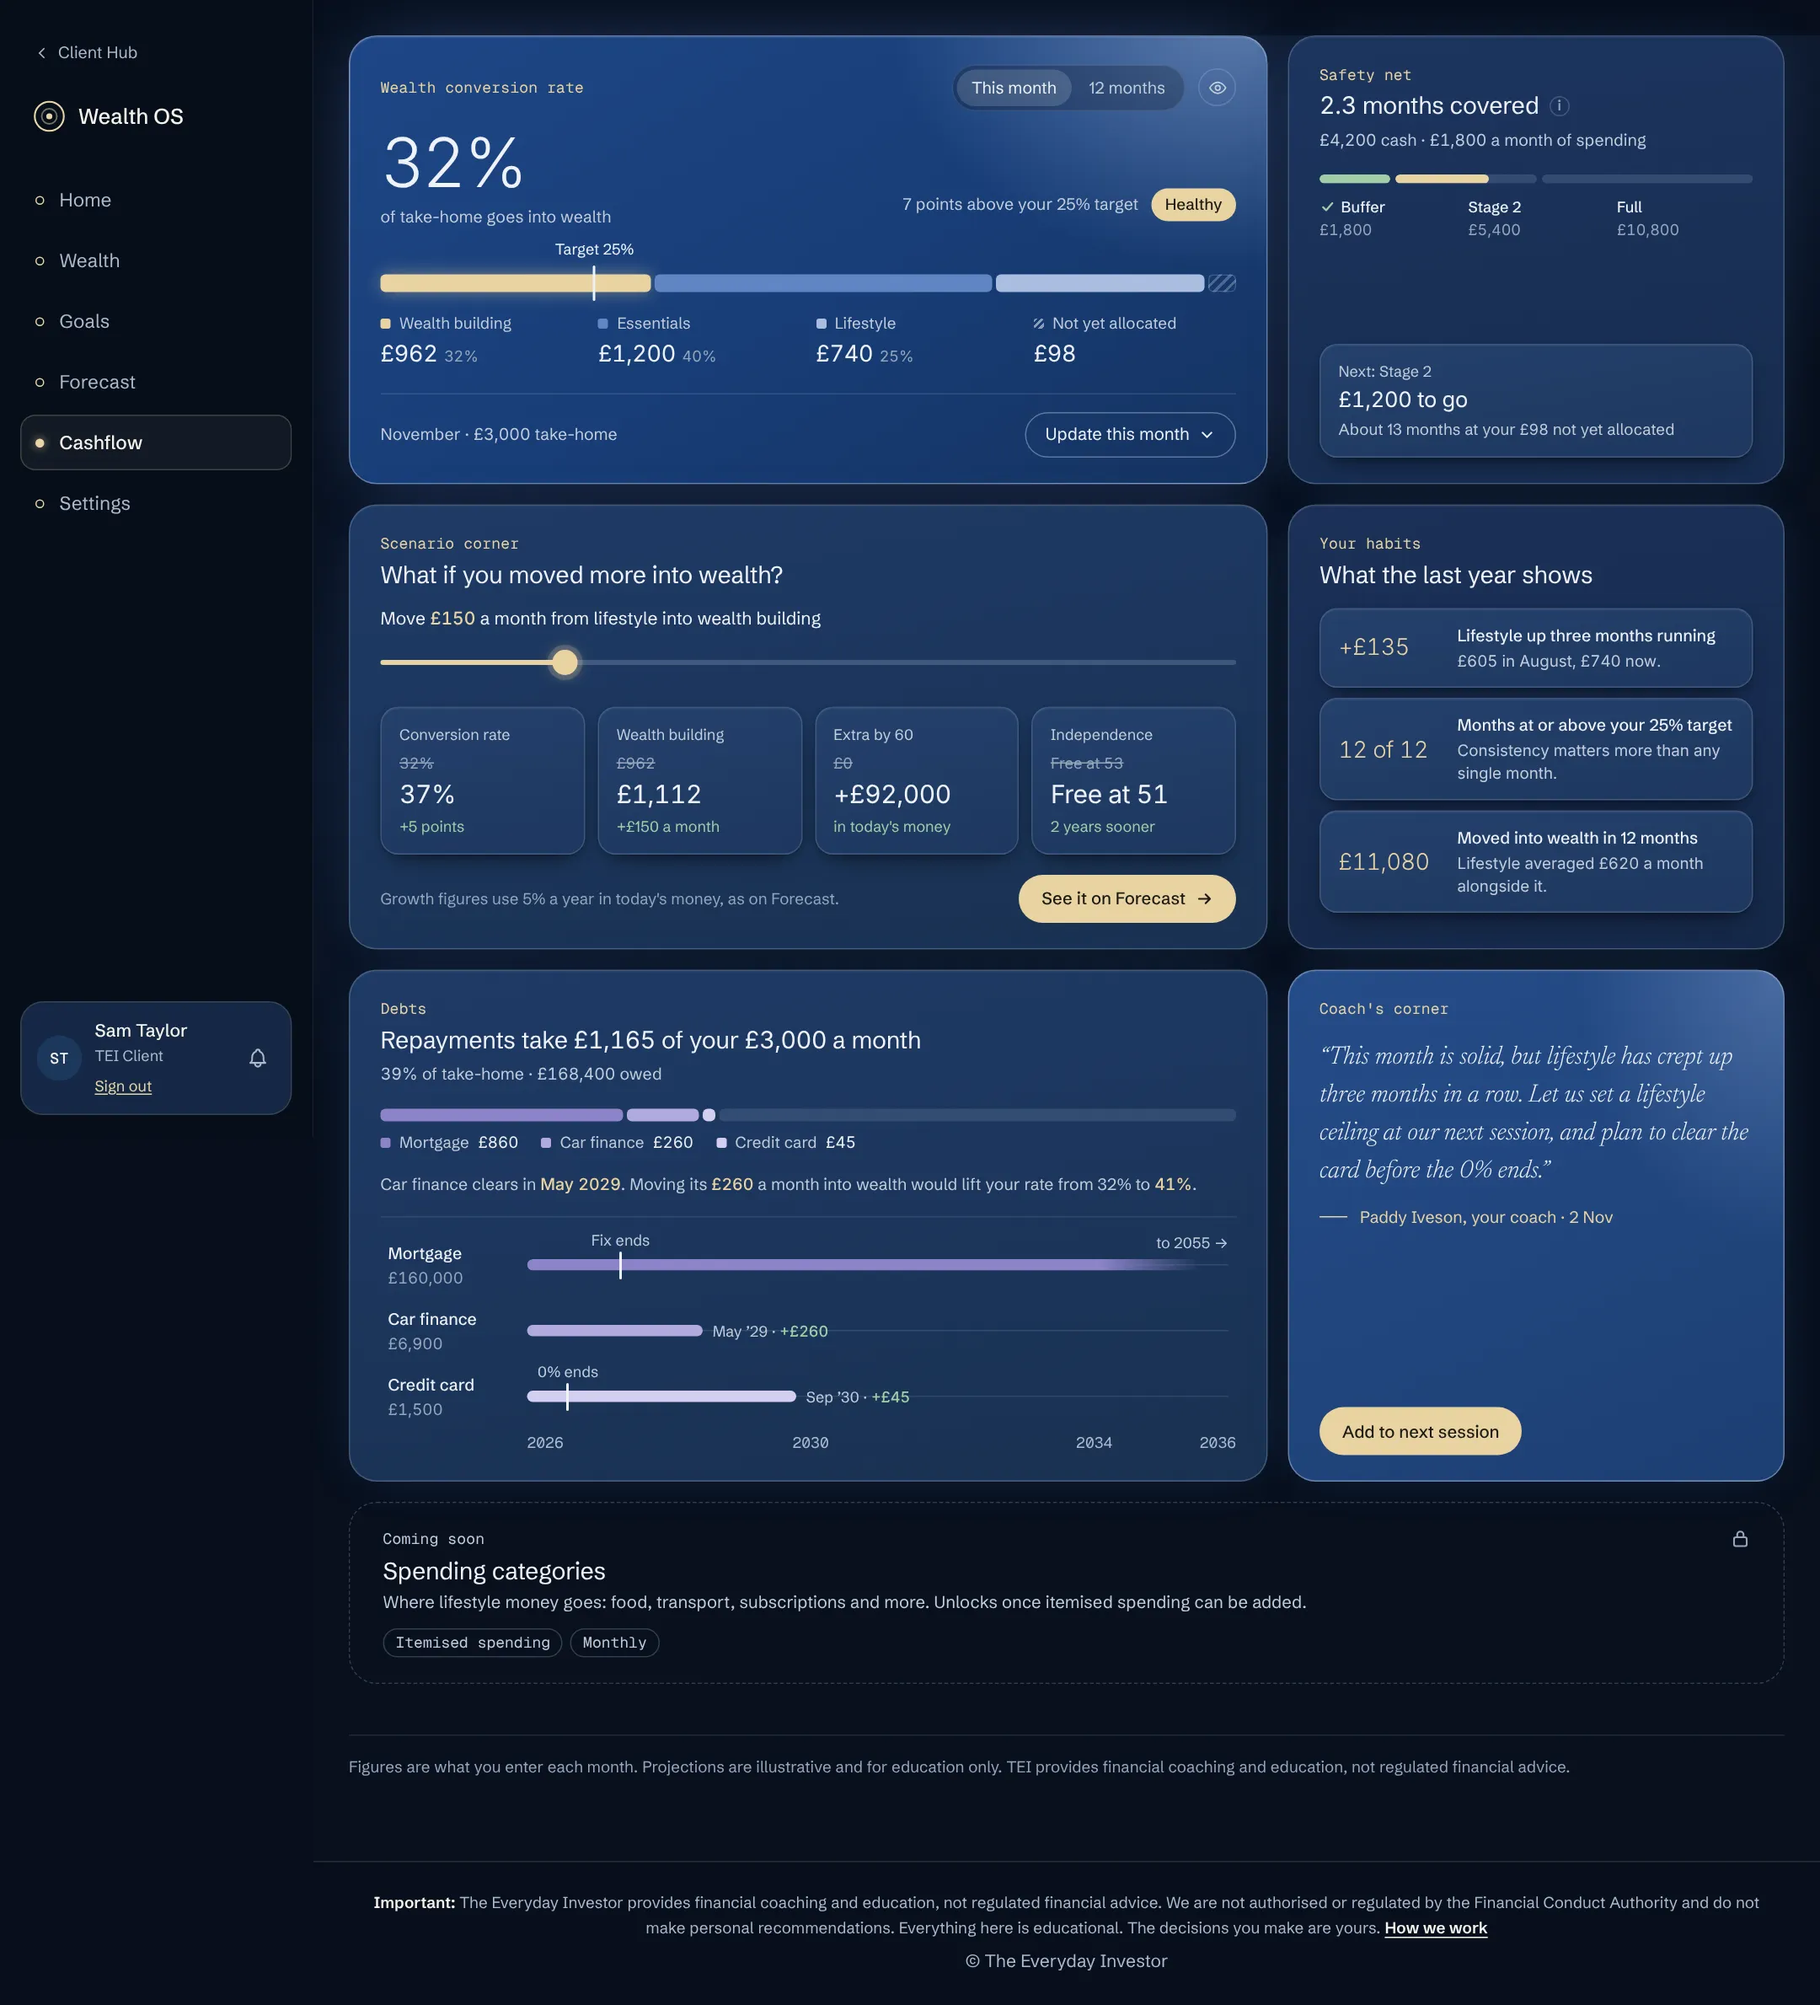
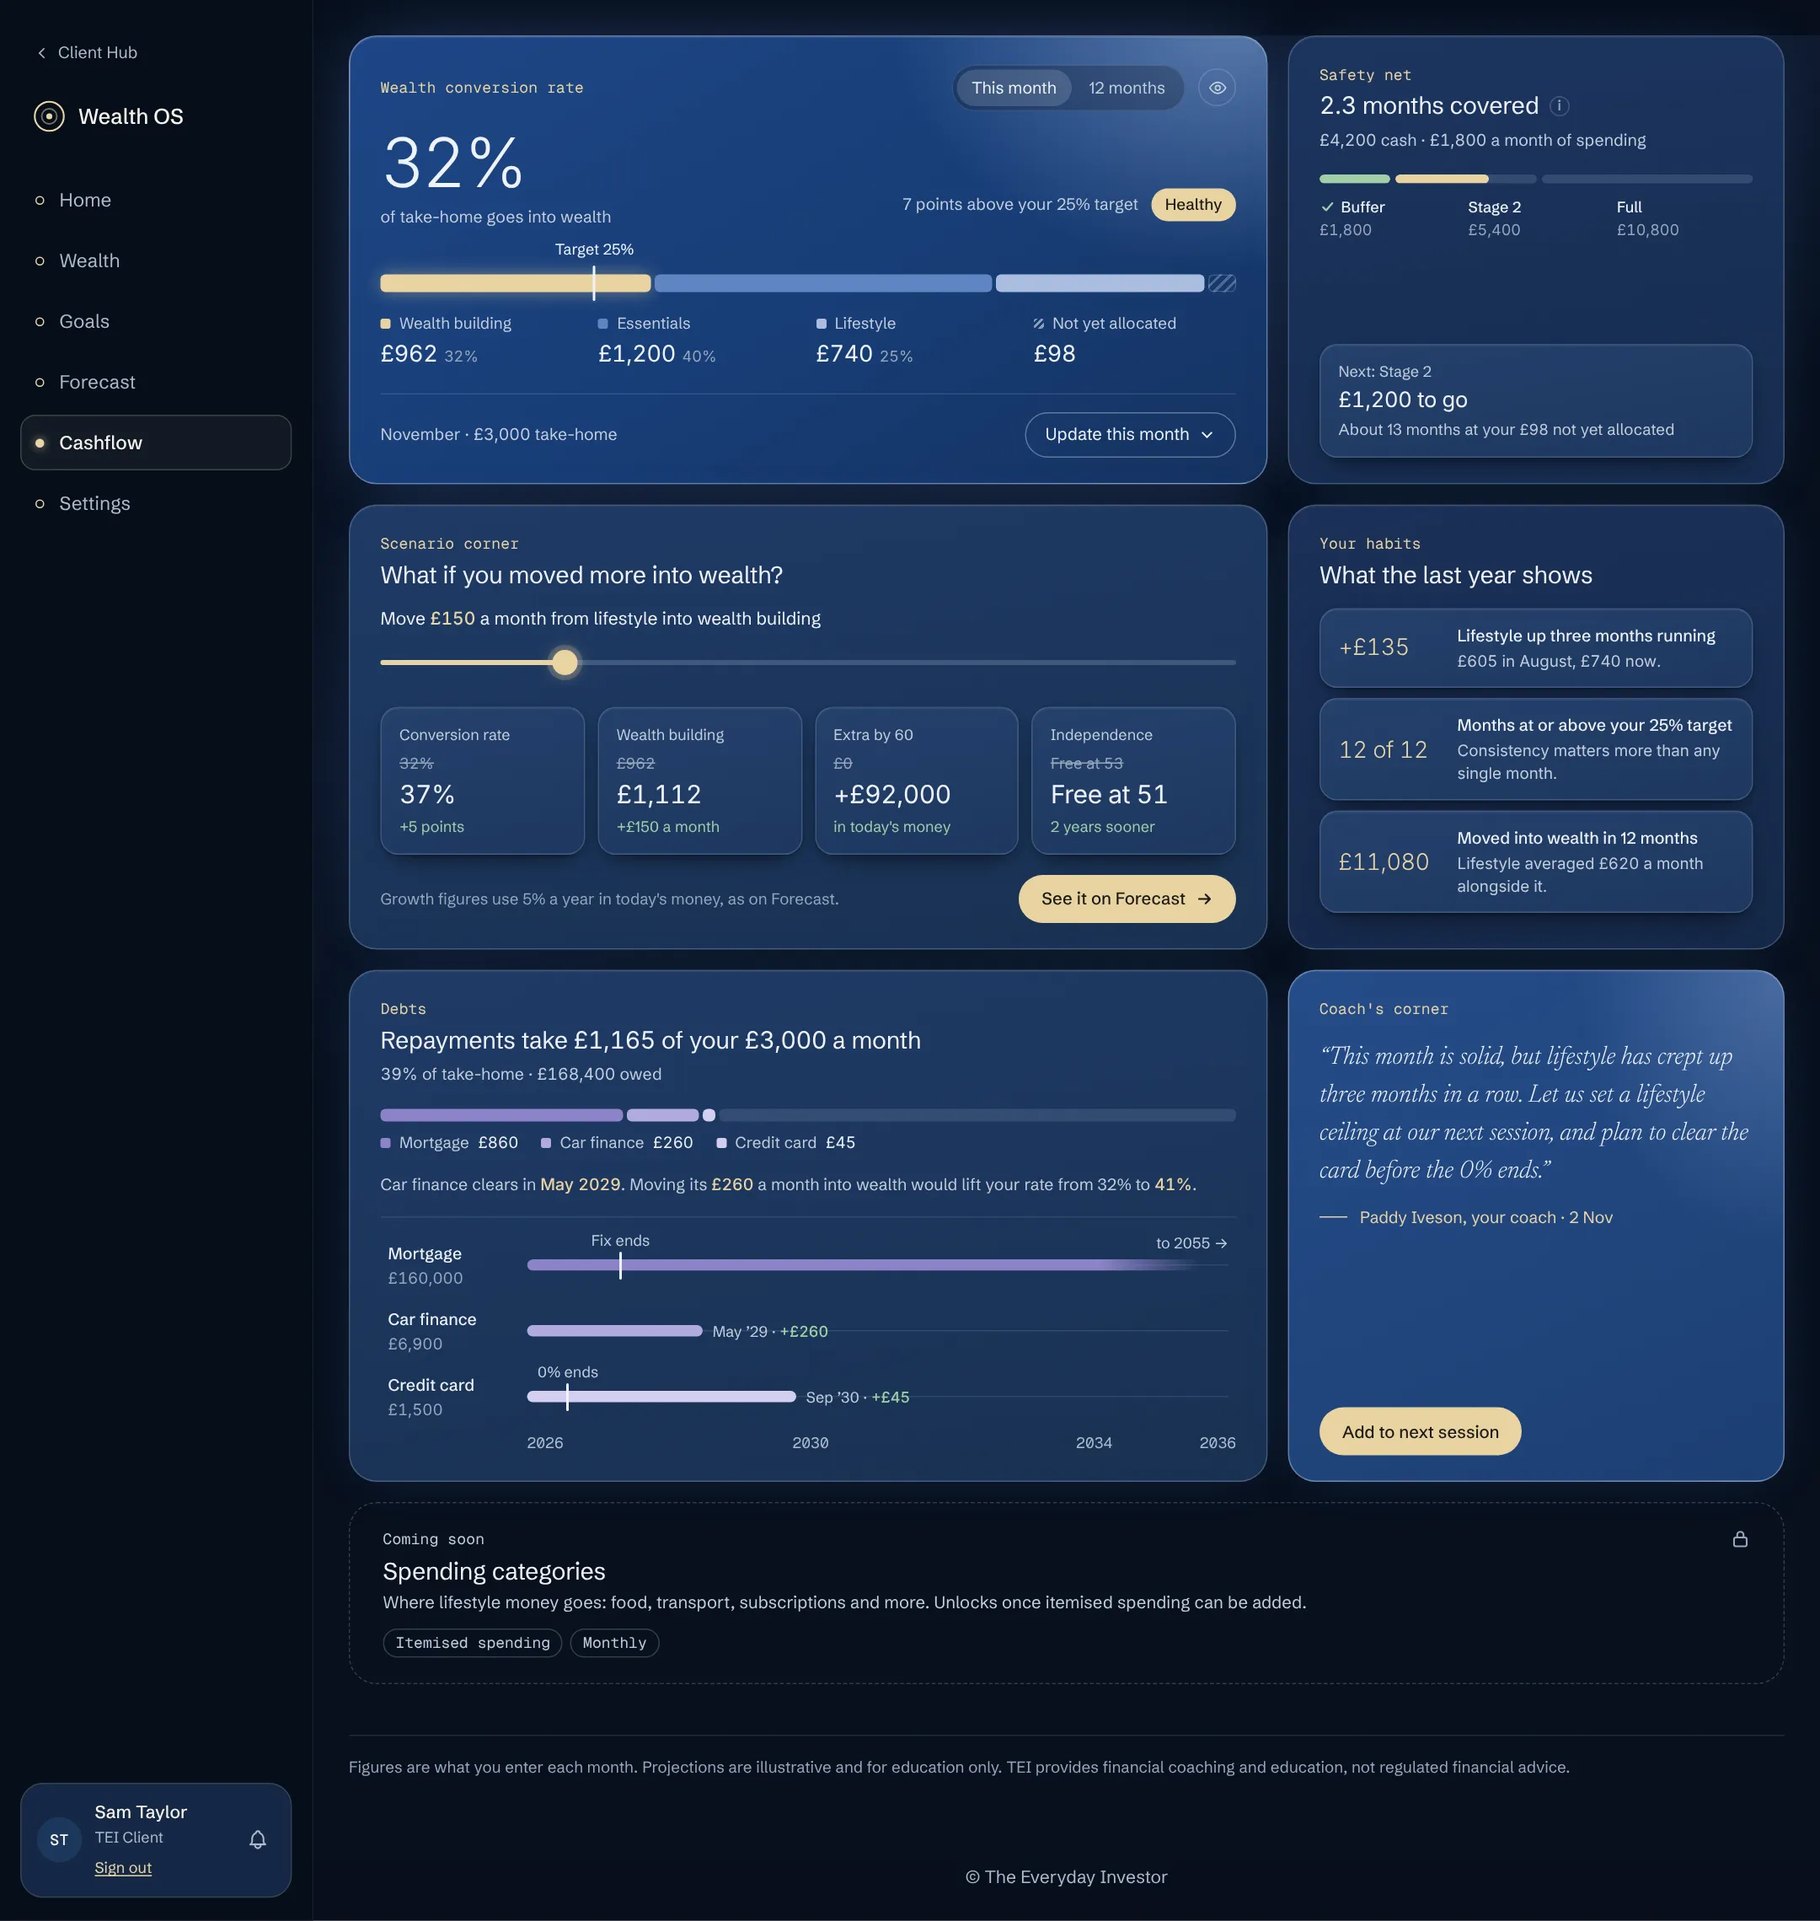
Homepage: use the width of wide screens; captures without the site footer
Content and the header widen to 1760px with a gutter that grows with the
screen, and the hero fills the first screen. The Wealth OS captures now
run the sidebar full height and leave out the Important bar.

Claude-Session: https://claude.ai/code/session_015wx5T26RgPTGsWLvy2vpF1

diff --git a/assets/home.css b/assets/home.css
@@ -1118,3 +1118,16 @@ body.hp-body .tei-ftr + footer .footer-logo-mark{color:var(--champ)!important}
 /* A closed sheet is out of the way for screen readers and full-page captures too. */
 .sheet{visibility:hidden;transition:transform .38s cubic-bezier(.2,.8,.2,1),visibility 0s linear .38s}
 body.sheet-on .sheet{visibility:visible;transition:transform .38s cubic-bezier(.2,.8,.2,1)}
+
+/* Wide screens (Paddy, 9 Nov): the page uses the width instead of a 1280px
+   column. Content widens to 1760px with a gutter that grows with the screen;
+   the shared header's inner row follows on this page only. */
+@media (min-width:1100px){
+  .hp .w{max-width:1760px;padding-inline:clamp(32px,4vw,72px)}
+  .tei-hdr--home .tei-hdr-in{box-sizing:border-box;max-width:1760px;padding-inline:clamp(32px,4vw,72px)}
+  .hp .hero{max-width:1760px}
+  .hp .hero .lead{font-size:clamp(44px,3.2vw,60px)}
+  .hp .hero .anchor{font-size:clamp(153px,10.4vw,200px)}
+  .hp .hero .dek{font-size:clamp(19px,1.2vw,22px)}
+  .hp .hero{min-height:max(680px,calc(100vh - 68px))}
+}

diff --git a/scripts/capture-home-previews.js b/scripts/capture-home-previews.js
@@ -26,7 +26,9 @@ const DEMO = fs.readFileSync(path.join(__dirname, 'wos-demo', 'demo-client.js'),
 const TYPES = {'.html':'text/html', '.js':'text/javascript', '.css':'text/css', '.json':'application/json', '.svg':'image/svg+xml', '.png':'image/png', '.webp':'image/webp', '.jpg':'image/jpeg'};
 const PAGES = [['progress', 'wealth'], ['planning', 'forecast'], ['cashflow', 'cashflow']];
 // The feedback button, toasts and the site footer are not part of the screens.
-const HIDE = '.feedback-fab,#toast,.tei-boundary-footer,.tei-boundary,#sideSetupBtn{display:none!important}';
+const HIDE = '.feedback-fab,#toast,#disclaimerBar,.tei-boundary-footer,.tei-boundary,#sideSetupBtn{display:none!important}'
+  // The fixed sidebar runs the full height of a full-page capture.
+  + '.app-shell{position:relative}#clientApp .sidebar{position:absolute!important;height:auto!important;min-height:100%!important;bottom:0}';
 
 function serve(){
   return new Promise(res=>{
